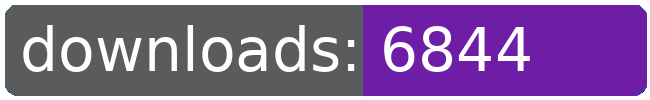
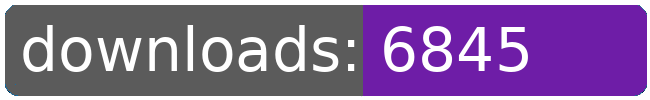
dl log written

Changed region(s): [[0.7692, 0.27, 0.8308, 0.72]]

diff --git a/README.md b/README.md
@@ -32,8 +32,8 @@
 		<td>6788</td>
 		<td>6814</td>
 		<td>6839</td>
-		<td>6844</td>
-		<td>+ 5</td>
+		<td>6845</td>
+		<td>+ 6</td>
 	</tr>
 	<tr>
 		<td>avgi.outfitter</td>
@@ -274,8 +274,8 @@
 		<td></td>
 		<td></td>
 		<td></td>
-		<td>110456</td>
-		<td>102</td>
+		<td>110457</td>
+		<td>103</td>
 	</tr>
 </table>
 </sub></sup>
@@ -311,8 +311,8 @@
 		<td>6788</td>
 		<td>6814</td>
 		<td>6839</td>
-		<td>6844</td>
-		<td>+ 5</td>
+		<td>6845</td>
+		<td>+ 6</td>
 	</tr>
 	<tr>
 		<td>bunrodeaoutfitter</td>
@@ -553,8 +553,8 @@
 		<td></td>
 		<td></td>
 		<td></td>
-		<td>110456</td>
-		<td>102</td>
+		<td>110457</td>
+		<td>103</td>
 	</tr>
 </table>
 </sub></sup>
